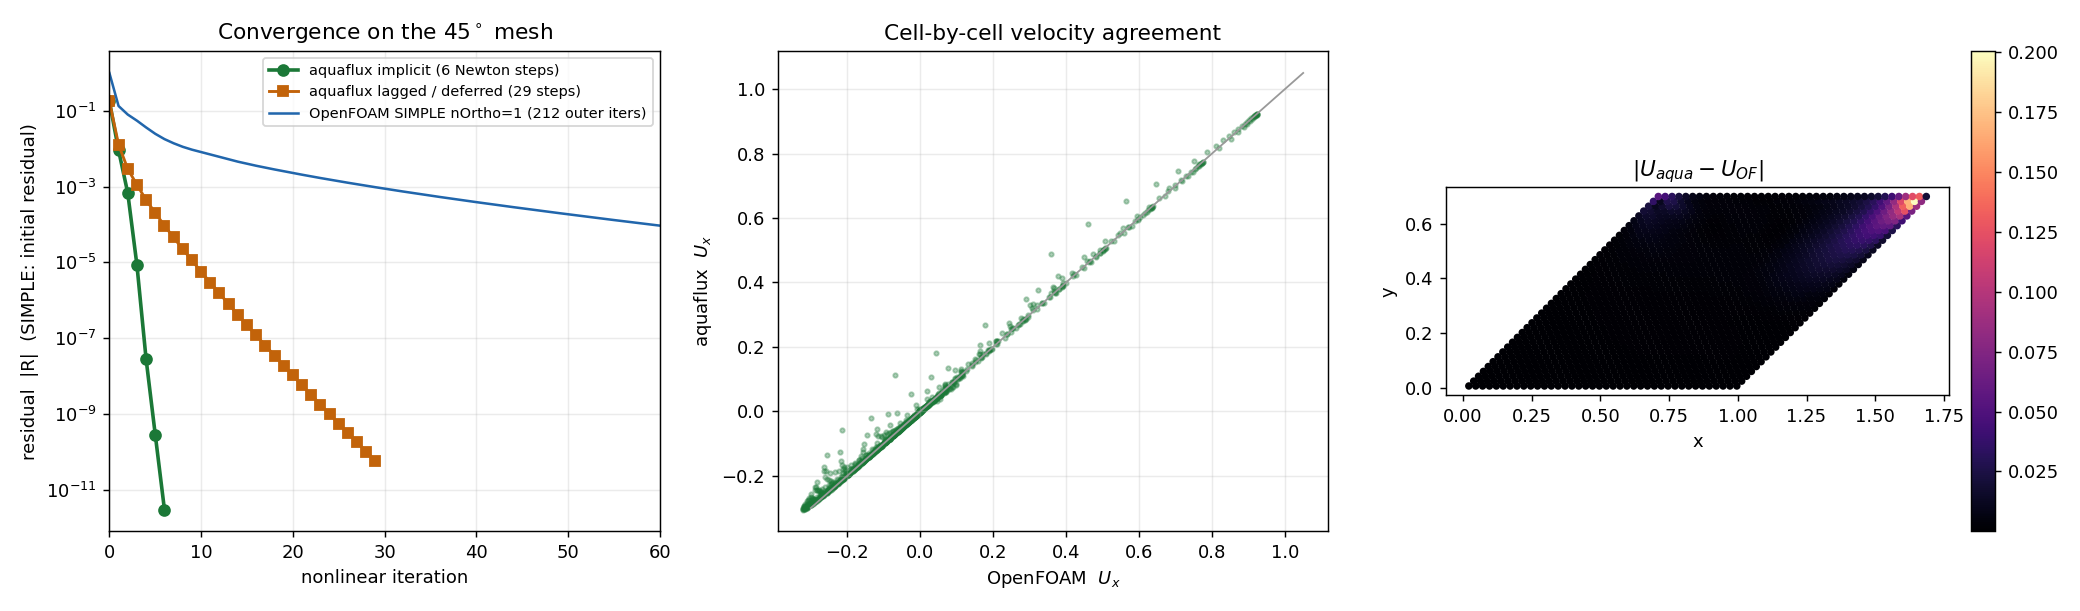
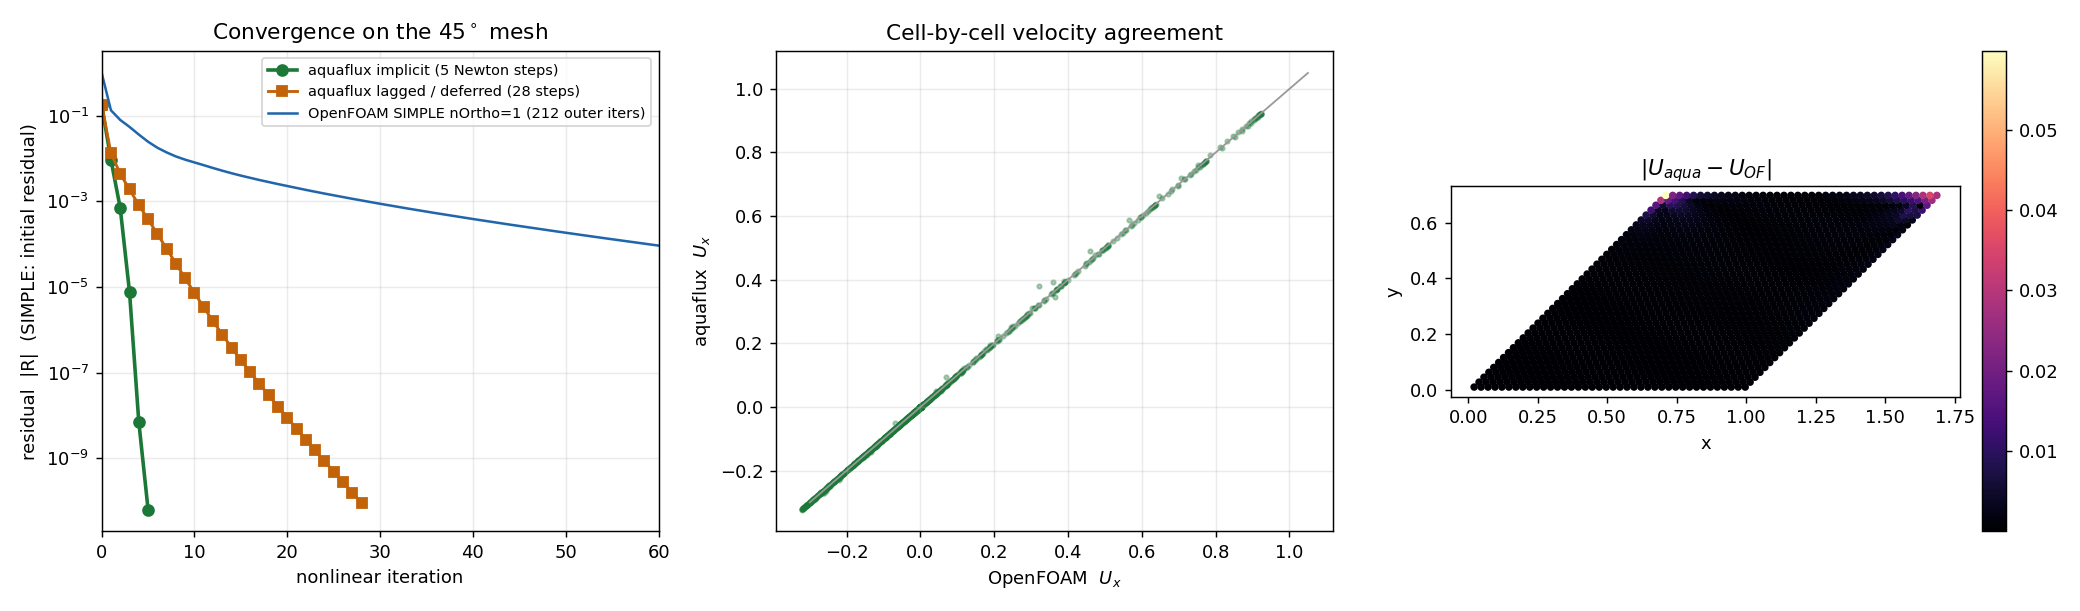
test(validation): refresh skewed-cavity accuracy after the gradient skewness fix
Re-ran compare.py against the same OpenFOAM reference with the updated skewness
correction. Bulk field agreement tightens markedly: velocity RMS 1.66% -> 0.30% of
lid speed, pressure RMS 2.5e-2 -> 4.8e-3; the residual max stays at the singular lid
corner (21.7% -> 6.5%). Convergence unchanged (implicit ~5 Newton steps, quadratic).

diff --git a/validation/skewed_cavity/report.md b/validation/skewed_cavity/report.md
@@ -27,10 +27,10 @@ map in `figures/comparison.png`, black everywhere except the corner):
 
 | metric | value |
 |---|---|
-| RMS \|U_aqua - U_OF\| / lid speed | 1.66 % |
-| max \|U_aqua - U_OF\| / lid speed (**at the singular lid corner**) | 21.7 % |
-| RMS \|p_aqua - p_OF\| (mean-removed) | 2.538e-02 |
-| max \|p_aqua - p_OF\| (**at the singular lid corner**) | 6.909e-01 |
+| RMS \|U_aqua - U_OF\| / lid speed | 0.30 % |
+| max \|U_aqua - U_OF\| / lid speed (**at the singular lid corner**) | 6.5 % |
+| RMS \|p_aqua - p_OF\| (mean-removed) | 4.777e-03 |
+| max \|p_aqua - p_OF\| (**at the singular lid corner**) | 1.473e-01 |
 | centroid-mapping mismatch | 5.0e-12 (confirms the identical mesh) |
 
 The ~1-2% bulk difference is the expected consequence of two independent solvers
@@ -47,17 +47,17 @@ not the mesh non-orthogonality -- sets the maximum.
 | **OpenFOAM SIMPLE, `nNonOrthogonalCorrectors 0`** | correction absent | **DIVERGES** (nan) |
 | OpenFOAM SIMPLE, `nNonOrthogonalCorrectors 1` | 1 deferred sweep / outer iter | 212 outer iterations |
 | OpenFOAM SIMPLE, `nNonOrthogonalCorrectors 2` | 2 deferred sweeps / outer iter | 212 outer iterations |
-| **aquaflux, corrected gradient in the AD Jacobian** | fully implicit | **6 Newton steps** |
-| aquaflux, gradient lagged (`stop_gradient`) | deferred correction | 29 steps |
+| **aquaflux, corrected gradient in the AD Jacobian** | fully implicit | **5 Newton steps** |
+| aquaflux, gradient lagged (`stop_gradient`) | deferred correction | 28 steps |
 
 Reading the table:
 
 * **The uncorrected segregated solve diverges** on a 45-deg mesh -- the correction
   is not optional here.
-* **aquaflux converges quadratically in 6 Newton steps** because the
+* **aquaflux converges quadratically in 5 Newton steps** because the
   corrected-gradient reconstruction is inside the residual and AD places its full
   linearisation in the coupled Jacobian. Residual history:
-  1.8e-01, 9.1e-03, 6.8e-04, 8.6e-06, 2.8e-08, 2.8e-10, 3.0e-12.
+  1.8e-01, 9.4e-03, 7.0e-04, 7.6e-06, 7.1e-09, 6.4e-11.
 * **The same aquaflux solver, with the gradient hidden from the Jacobian**
   (`stop_gradient`, i.e. deferred correction), converges only linearly -- reproducing the
   classical lagged behaviour and isolating the linearisation as the cause,
@@ -65,4 +65,4 @@ Reading the table:
 
 See `figures/comparison.png`.
 
-*(aquaflux wall time: implicit 40s, lagged 149s, incl. JIT warm-up.)*
+*(aquaflux wall time: implicit 45s, lagged 183s, incl. JIT warm-up.)*